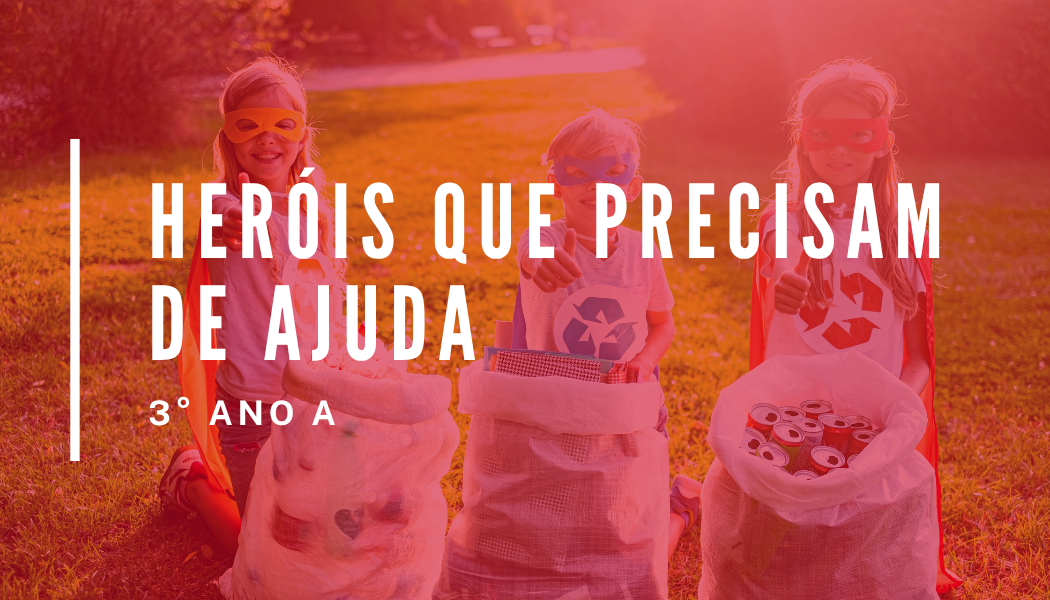
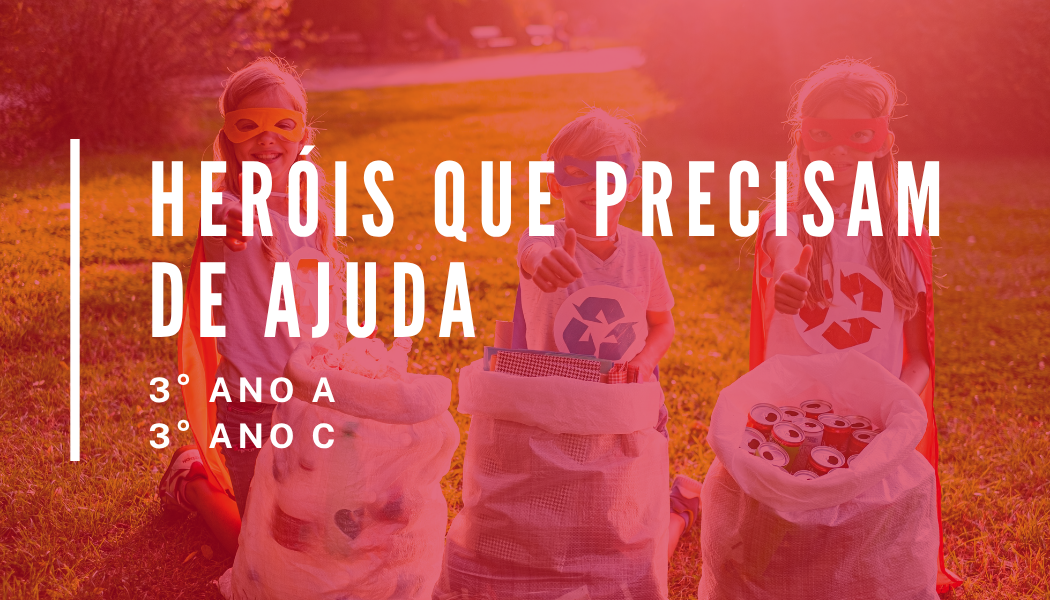
Ajustando algumas imagens

Changed region(s): [[0.1219, 0.24, 0.9143, 0.6], [0.1219, 0.63, 0.3352, 0.75]]

diff --git a/script.js b/script.js
@@ -10,19 +10,15 @@
             ],
             classes: {
                 'Educação Infantil': [
-                    { name: 'Maternal I', img: './img/Quem sou eu 1.png' },
-                    { name: 'Maternal II', img: './img/Quem sou eu 2.png' },
+                    { name: 'Maternal I e II', img: './img/Quem sou eu.png' },//! Olhar
                     { name: 'Jardim I', img: './img/Trajeto da escola.png' },
                     { name: 'Jardim II', img: './img/Amigos.png' }
                 ],
                 'Ensino Fundamental 1': [
                     { name: '1º Ano', img: './img/Detetive do tempo.png' },
-                    { name: '2º Ano A', img: './img/Animais e engenhocas 1.png' },
-                    { name: '2º Ano B', img: './img/Animais e engenhocas 2.png' },
-                    { name: '2º Ano C', img: './img/Animais e engenhocas 3.png' },
-                    { name: '3º Ano A', img: './img/Herois 1.png' },
+                    { name: '2º Ano A e B e C', img: './img/Animais.png' },
+                    { name: '3º Ano A e C', img: './img/Herois 1.png' },
                     { name: '3º Ano B', img: './img/Audicao.png' },
-                    { name: '3º Ano C', img: './img/Herois 2.png' },
                     { name: '4º Ano A', img: './img/Oceano.png' },
                     { name: '4º Ano B', img: './img/Abelhas.png' },
                     { name: '5º Ano A e B', img: './img/quinto.png' }

diff --git a/index.html b/index.html
@@ -9,7 +9,7 @@
 <body>
 
     <header>
-        <h1>Feira Literária Colégio da Vila Mackenzie</h1>
+        <h1>Feira Literária Colégio Mackenzie da Vila </h1>
         <p id="header-subtitle">Selecione o nível de ensino para avaliar</p>
     </header>
 
